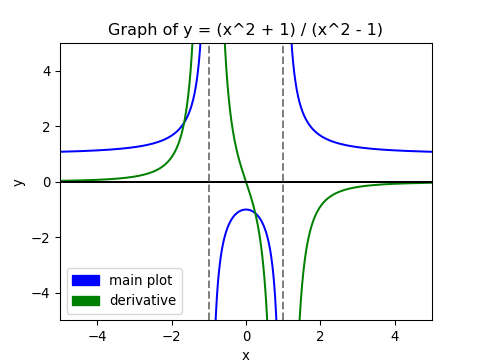
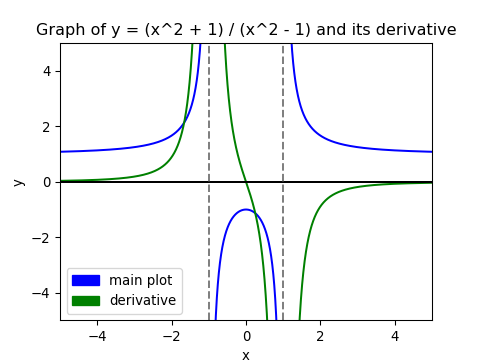
[BUGFIX] PS2A Q1: Correct title of even plot

Changed region(s): [[0.0625, 0.0611, 0.9688, 0.1222]]

diff --git a/code/ps2a/q1.py b/code/ps2a/q1.py
@@ -46,7 +46,7 @@ def _main():
     plt.axhline(y=0, color="black")
     plt.axvline(x=-1, color="gray", linestyle="dashed",)
     plt.axvline(x=1, color="gray", linestyle="dashed",)
-    plt.title("Graph of y = (x^2 + 1) / (x^2 - 1)")
+    plt.title("Graph of y = (x^2 + 1) / (x^2 - 1) and its derivative")
     plt.xlabel("x")
     plt.ylabel("y")
     main_plot_patch = mpatches.Patch(color=_MAIN_PLOT_COLOR, label="main plot",)
